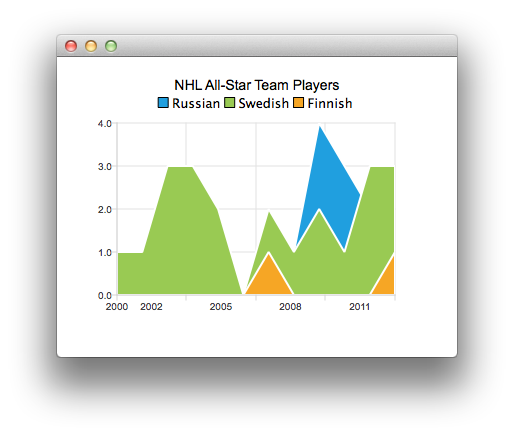
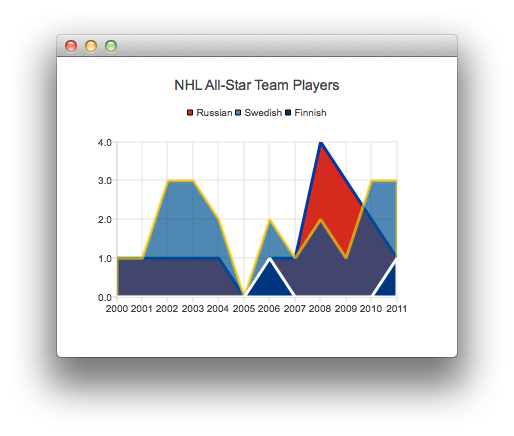
Fixed formatting of axis in qmlchart demo

diff --git a/qtcharts/demos/qmlchart/qml/qmlchart/View4.qml b/qtcharts/demos/qmlchart/qml/qmlchart/View4.qml
@@ -34,6 +34,7 @@ Rectangle {
             min: 2000
             max: 2011
             tickCount: 12
+            labelFormat: "%.0f"
         }
 
         AreaSeries {
